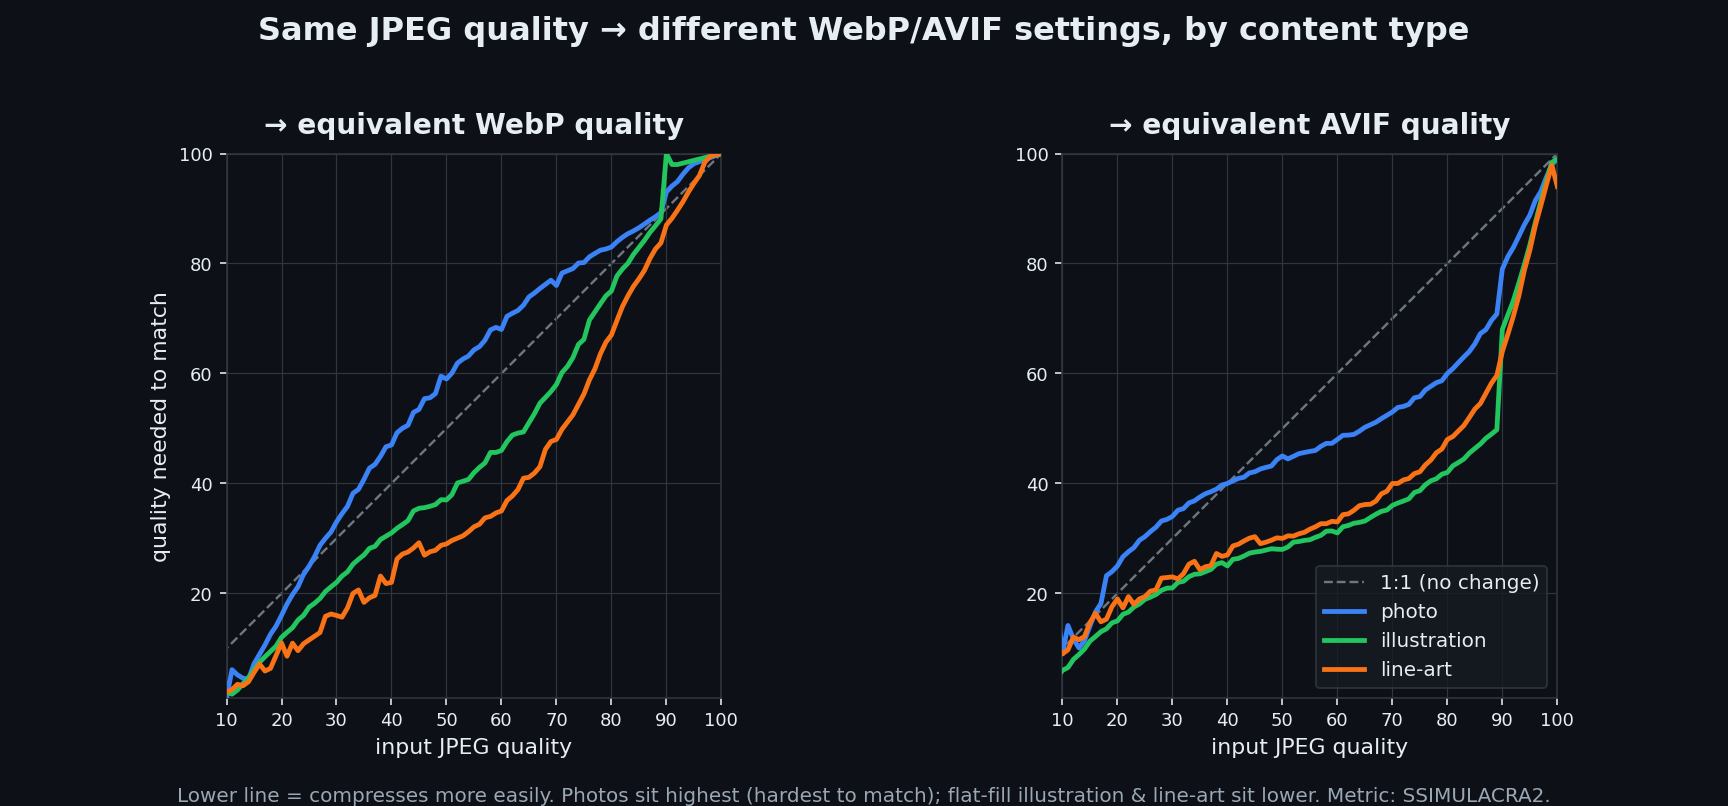
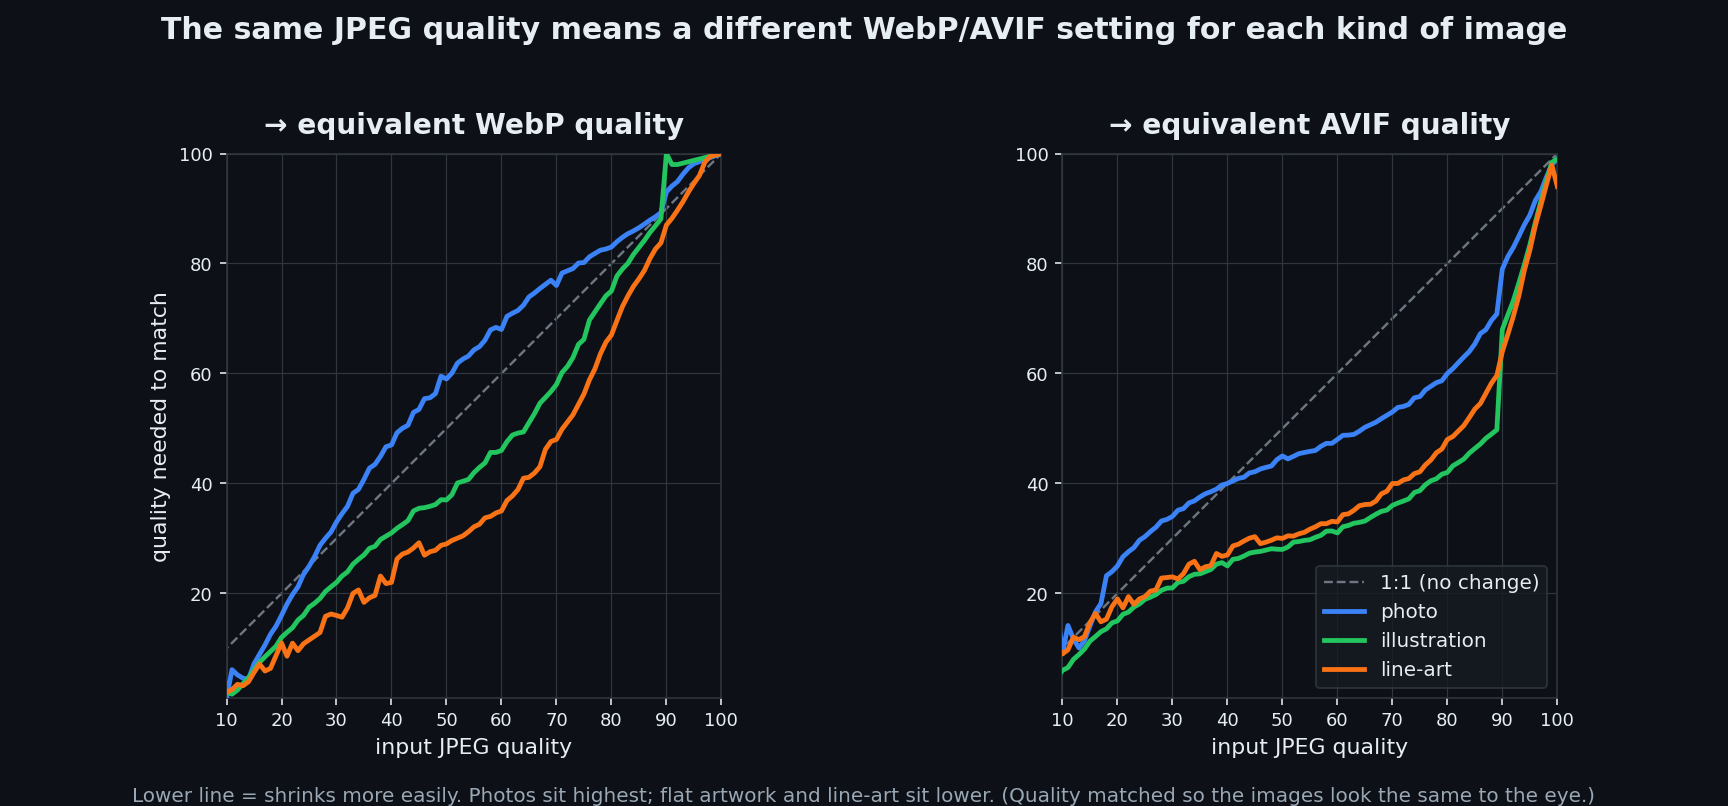
Add file-size savings chart (the payoff) in plain language
calibration/measure-sizes.mjs measures real % savings (encode the dataset at the
SSIMULACRA2-matched qualities, AVIF speed 0, average) → assets/savings-data.json;
calibration/plot-savings.py renders assets/savings.png. README gets a "How much
smaller will my files get?" section up front: AVIF saves ~30–50% on photos,
~55–60% line-art, ~60–65% illustrations — at the same visual quality. Also
reworded the quality chart's framing for practitioners (no bare "SSIMULACRA2";
"matched so they look the same to the eye").

Changed region(s): [[0.0625, 0.9615, 0.9062, 1.0], [0.0938, 0.0, 0.9062, 0.062]]

diff --git a/calibration/plot-savings.py b/calibration/plot-savings.py
@@ -1,0 +1,54 @@
+#!/usr/bin/env python3
+"""
+plot-savings.py — render assets/savings.png from assets/savings-data.json (run measure-sizes.mjs first).
+
+  calibration/venv/bin/python calibration/plot-savings.py
+
+The payoff chart: how much smaller WebP/AVIF come out vs the JPEG, at the SAME visual quality,
+by content type and starting JPEG quality. Plain and practitioner-facing.
+"""
+import json
+import os
+import matplotlib
+matplotlib.use("Agg")
+import matplotlib.pyplot as plt
+
+ROOT = os.path.join(os.path.dirname(__file__), "..")
+TYPES = [("photo", "#3b82f6"), ("illustration", "#22c55e"), ("line-art", "#f97316")]
+BG, FG, GRID = "#0d1117", "#e6edf3", "#30363d"
+
+with open(os.path.join(ROOT, "assets", "savings-data.json")) as f:
+    data = json.load(f)
+
+
+def panel(ax, key, title):
+    ax.set_facecolor(BG)
+    ax.axhline(0, color="#6e7681", lw=1.0)
+    for ctype, color in TYPES:
+        rows = data[ctype]
+        ax.plot([r["jpeg_q"] for r in rows], [r[key] for r in rows],
+                color=color, lw=2.4, marker="o", ms=4, label=ctype)
+    ax.set_title(title, color=FG, fontsize=14, pad=10, fontweight="bold")
+    ax.set_xlabel("quality of your JPEGs", color=FG, fontsize=11)
+    ax.set_xlim(20, 90)
+    ax.grid(True, color=GRID, lw=0.6)
+    for s in ax.spines.values(): s.set_color(GRID)
+    ax.tick_params(colors=FG, labelsize=9)
+    ax.yaxis.set_major_formatter(lambda v, _: f"{v:.0f}%")
+
+
+fig, (a1, a2) = plt.subplots(1, 2, figsize=(12, 5.4), facecolor=BG, sharey=True)
+panel(a1, "webp_pct", "Switch to WebP")
+panel(a2, "avif_pct", "Switch to AVIF")
+a1.set_ylabel("smaller than the JPEG", color=FG, fontsize=11)
+a2.legend(facecolor="#161b22", edgecolor=GRID, labelcolor=FG, fontsize=10, loc="upper right")
+fig.suptitle("How much smaller — same image, same quality, modern format",
+             color=FG, fontsize=16, fontweight="bold", y=0.98)
+fig.text(0.5, 0.005, "Each point: the file shrinks this much with no visible quality loss. "
+         "Higher = bigger win. AVIF wins most; flat artwork shrinks the most.",
+         ha="center", color="#9aa7b4", fontsize=10)
+fig.tight_layout(rect=[0, 0.03, 1, 0.95])
+
+out = os.path.join(ROOT, "assets", "savings.png")
+fig.savefig(out, dpi=144, facecolor=BG)
+print(f"wrote {out}")

diff --git a/calibration/plot-curves.py b/calibration/plot-curves.py
@@ -48,10 +48,10 @@ panel(a1, "webp_q", "→ equivalent WebP quality")
 panel(a2, "avif_q", "→ equivalent AVIF quality")
 a1.set_ylabel("quality needed to match", color=FG, fontsize=11)
 leg = a2.legend(facecolor="#161b22", edgecolor=GRID, labelcolor=FG, fontsize=10, loc="lower right")
-fig.suptitle("Same JPEG quality → different WebP/AVIF settings, by content type",
-             color=FG, fontsize=16, fontweight="bold", y=0.98)
-fig.text(0.5, 0.005, "Lower line = compresses more easily. Photos sit highest (hardest to match); "
-         "flat-fill illustration & line-art sit lower. Metric: SSIMULACRA2.",
+fig.suptitle("The same JPEG quality means a different WebP/AVIF setting for each kind of image",
+             color=FG, fontsize=15, fontweight="bold", y=0.98)
+fig.text(0.5, 0.005, "Lower line = shrinks more easily. Photos sit highest; flat artwork and "
+         "line-art sit lower. (Quality matched so the images look the same to the eye.)",
          ha="center", color="#9aa7b4", fontsize=10)
 fig.tight_layout(rect=[0, 0.03, 1, 0.95])
 

diff --git a/README.md b/README.md
@@ -39,6 +39,21 @@ guarantee: it binary-searches the lowest quality whose encode clears an absolute
 [SSIMULACRA2](https://github.com/cloudinary/ssimulacra2) floor vs the source JPEG — accurate and
 classification-independent, at the cost of needing `ssimulacra2` and more time.
 
+## How much smaller will my files get?
+
+![How much smaller WebP/AVIF are than JPEG at the same quality, by content type](assets/savings.png)
+
+At the **same visual quality** — the images look identical, the files are just lighter — switching
+JPEG → **AVIF** typically saves:
+
+- **Photos: ~30–50% smaller**
+- **Line-art: ~55–60% smaller**
+- **Illustrations / flat artwork: ~60–65% smaller**
+
+WebP saves less (and struggles on very-high-quality flat artwork), which is exactly why the
+converter encodes **both** and keeps whichever comes out smaller. Flatter images shrink the most;
+photos the least — same reason the right quality setting differs by content type:
+
 ## The data, in one picture
 
 ![Calibrated WebP/AVIF quality vs JPEG quality, per content type](assets/curves.png)